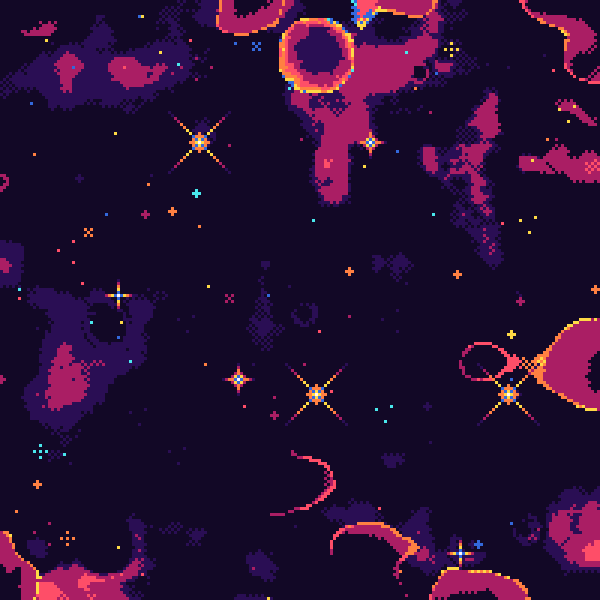
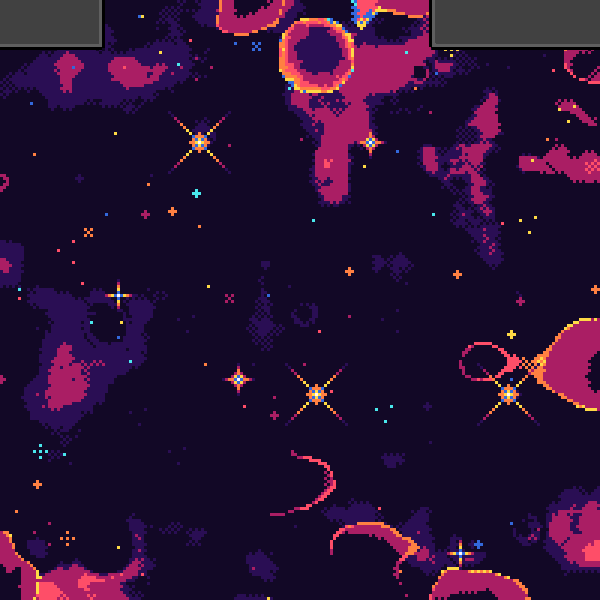
agregando contadores de vida-score (#5)
agregando pantallas
agregando mecanicas como reinicio-perder-ganar
agregando algunos tests..
cambiando algunos metodos a otros archivos mas generales
y no se q mas

Changed region(s): [[0.69, 0.0, 1.0, 0.09], [0.0, 0.0, 0.18, 0.09]]

diff --git a/README.md b/README.md
@@ -1,0 +1,29 @@
+## Capturas
+
+![Uploading imagen.png…]()
+
+
+## Equipo de desarrollo
+
+- Lucas Asorey
+- Andrea G. Frank
+
+## Reglas de Juego / Instrucciones
+meta: 5000 (?)
+puntos por nave:
+    tanque 200
+    ligera 500
+    jefe 1000
+
+## OBJETIVO
+...
+
+## INSTRUCCIONES
+...
+
+
+## Otros
+
+- Comision 2, Universidad Nacional de Quilmes
+- Versión de wollok: 4.2.3
+- Una vez terminado, no tenemos problemas en que el repositorio sea público
